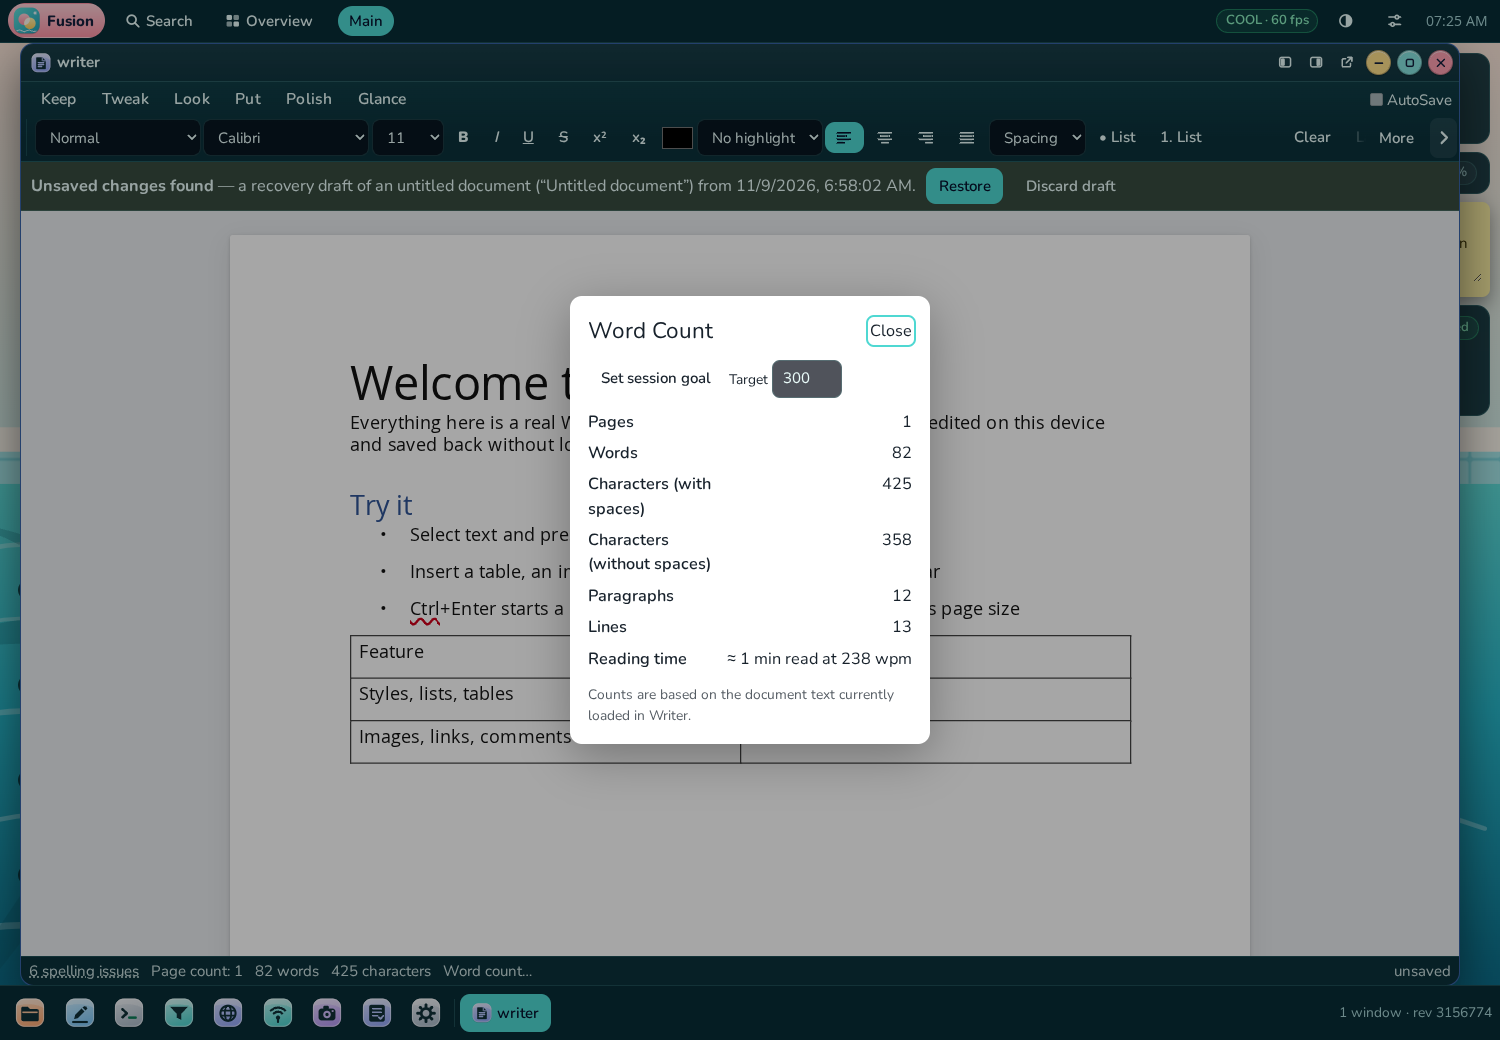
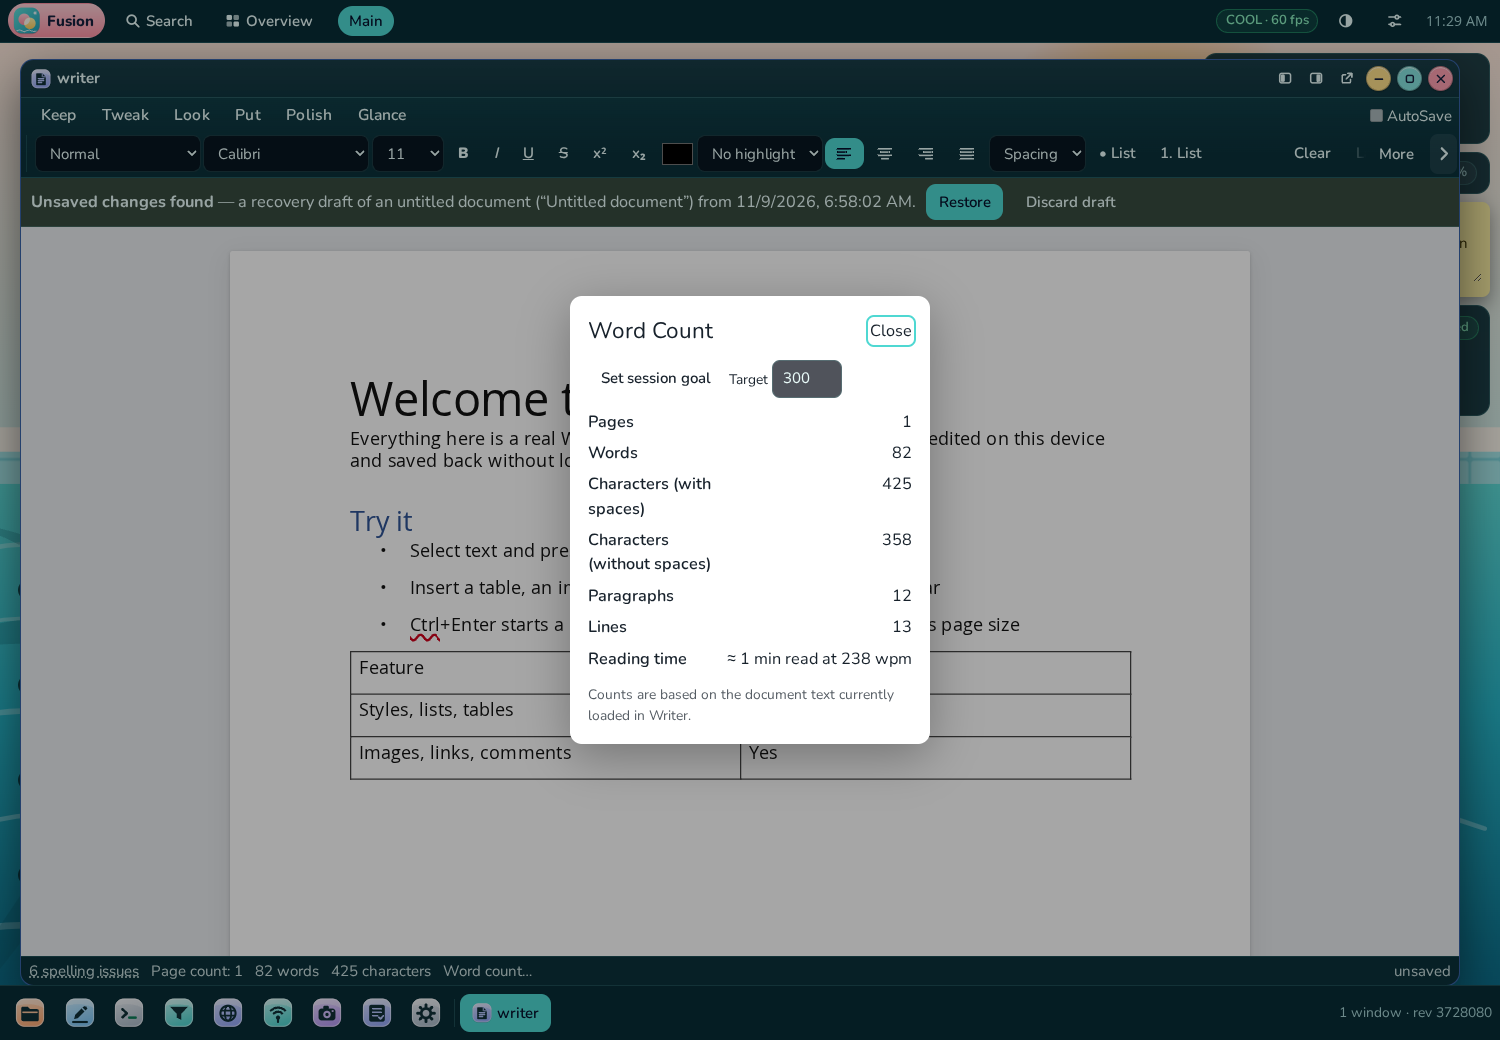
Organize Monitor diagnostics into keyboard-accessible groups

diff --git a/src/components/modules/Monitor.tsx b/src/components/modules/Monitor.tsx
@@ -144,31 +144,31 @@ export default function MonitorModule(_: ModuleProps) {
 
       <MeasuredNetworkSection />
       <EngineFeaturesSection />
-      <TT143Section />
-      <Section title="Platform mechanics (TT145)">
-        <div className="fs-dim" style={{ fontSize: fz(10.5) }} data-testid="tt145-intro">
-          Twenty mechanisms, each with its own refusal. Every sentence below comes from the engine that made the decision.
+      <details className="fs-card" style={{ padding: 10 }}>
+        <summary style={{ cursor: "pointer", fontWeight: 700 }}>Window, performance and media</summary>
+        <div style={{ display: "grid", gap: 10, marginTop: 10 }}>
+          <Section title="Platform mechanics (TT145)">
+            <div className="fs-dim" style={{ fontSize: fz(10.5) }} data-testid="tt145-intro">
+              Twenty mechanisms, each with its own refusal. Every sentence below comes from the engine that made the decision.
+            </div>
+          </Section>
+          <FrameBudgetPanel /><HandoffClaimPanel /><BlackoutPanel /><WindowMechanicsPanel /><LanePanel />
+          <AudioBudgetPanel /><CodecPanel /><UpscalePanel />
         </div>
-      </Section>
-      <FrameBudgetPanel />
-      <HandoffClaimPanel />
-      <BlackoutPanel />
-      <WindowMechanicsPanel />
-      <LanePanel />
-      <AudioBudgetPanel />
-      <CodecPanel />
-      <VolumePanel />
-      <DropPanel />
-      <FilterPanel />
-      <ExclusionPanel />
-      <EntitlementPanel />
-      <BackupEvidencePanel />
-      <TrashPanel />
-      <AlarmPanel />
-      <UpscalePanel />
-
-      <SchedulerSection />
-      <TestsFasterSection />
+      </details>
+      <details className="fs-card" style={{ padding: 10 }}>
+        <summary style={{ cursor: "pointer", fontWeight: 700 }}>Privacy, storage and alarms</summary>
+        <div style={{ display: "grid", gap: 10, marginTop: 10 }}>
+          <VolumePanel /><DropPanel /><FilterPanel /><ExclusionPanel /><EntitlementPanel />
+          <BackupEvidencePanel /><TrashPanel /><AlarmPanel />
+        </div>
+      </details>
+      <details className="fs-card" style={{ padding: 10 }}>
+        <summary style={{ cursor: "pointer", fontWeight: 700 }}>Platform, scheduling and tests</summary>
+        <div style={{ display: "grid", gap: 10, marginTop: 10 }}>
+          <TT143Section /><SchedulerSection /><TestsFasterSection />
+        </div>
+      </details>
 
       <Section title="Audit log">
         <div className="fs-scroll fs-mono" tabIndex={0} role="region" aria-label="Audit log" style={{ maxHeight: fz(130), fontSize: fz(10.5) }}>

diff --git a/docs/DESIGN-TT156.md b/docs/DESIGN-TT156.md
@@ -1,0 +1,22 @@
+# TT156: Monitor disclosure, bounded evidence
+
+## Question and model
+On a 1280×900 or 1500×1040 Chromium desktop with the disposable app database, can the Monitor present core status first while retaining its diagnostic panels? Success means native keyboard-operable disclosure, all previously rendered panels still mounted and reachable, and lower initially visible text without altering density caps. This is not a proof of screen-reader behavior, mobile discoverability, or production readiness of each engine.
+
+H+: named groups reduce initial Monitor density while preserving interactions. H−: disclosure makes important controls undiscoverable, inaccessible or loses state. Boundary: expanded groups remain long; native details implementation and labels may not suit every assistive technology. Best known frontier: prior full gate Monitor measured 1508 words (cap 520); TT156's TT119 and TT120 runs measured 305 in their respective sessions, and TT124 Monitor passed. This is a different run with a mutable database, not a controlled timing or perfect before/after experiment.
+
+## Six mechanisms and attacks
+1. Native details/summary: Enter and Space open; Enter closes/reopens in real Chromium. Screen readers not tested.
+2. Group labels: three topical summaries; visible in screenshot, but no independent user discoverability study.
+3. Persistent mounted children: a changed filter input survives closing and reopening its group. Reload persistence is not claimed.
+4. Core Monitor remains exposed: the existing in-flight control is awaited without expanding any group.
+5. Existing engine controls: 16 panel test IDs checked visible after opening two groups; real text input edited. This does not exercise every control.
+6. Regression containment: production build, TypeScript, TT141 browser 8/8 and the new browser test 1/1 passed; TT124 still fails Routines and Storage. No complete gate rerun.
+
+The new browser test was run before the patch and failed waiting for the missing disclosure, then passed after implementation; expanded-state screenshot visually inspected. W3C guidance on [progressive disclosure](https://www.w3.org/WAI/people-use-web/tools-techniques/presentation/) and [disclosure keyboard operation](https://www.w3.org/WAI/ARIA/apg/patterns/disclosure/examples/disclosure-card/) informed the design; implementation is independent and native details is not the APG example implementation.
+
+## Misleading result shapes to avoid
+1. A passing cap is not proof of usability. 2. Hidden controls are not removed controls. 3. Mounted controls are not necessarily discoverable. 4. Keyboard success is not screen-reader verification. 5. One viewport is not all sizes. 6. A screenshot is not an interaction test. 7. Test IDs being visible do not prove outcomes. 8. Edited input is not durable persistence. 9. A lower word count is not necessarily less cognitive load. 10. Mutable database counts are not controlled paired measurements. 11. A passing app is not a passing gate. 12. A production build is not a complete regression. 13. Historical receipts are not current verification. 14. Shorter interface text is not evidence of new functionality. 15. A draft PR is not a merged, release-ready result.
+
+## Remaining gaps
+TT124 density: Routines 697/300, Storage 507/480. TT119 and TT120 first fail Backup 459/440 (and stop at the first assertion); additional prior density failures may remain. TT125 and TT123 were not rerun here. Full gate, assistive-technology testing, all-app visual review, original graphics, measured repeat-test performance improvement and twenty new Class-A promotions remain unfinished. Do not merge on this evidence. Browser suites share a disposable database and must run exclusively.
